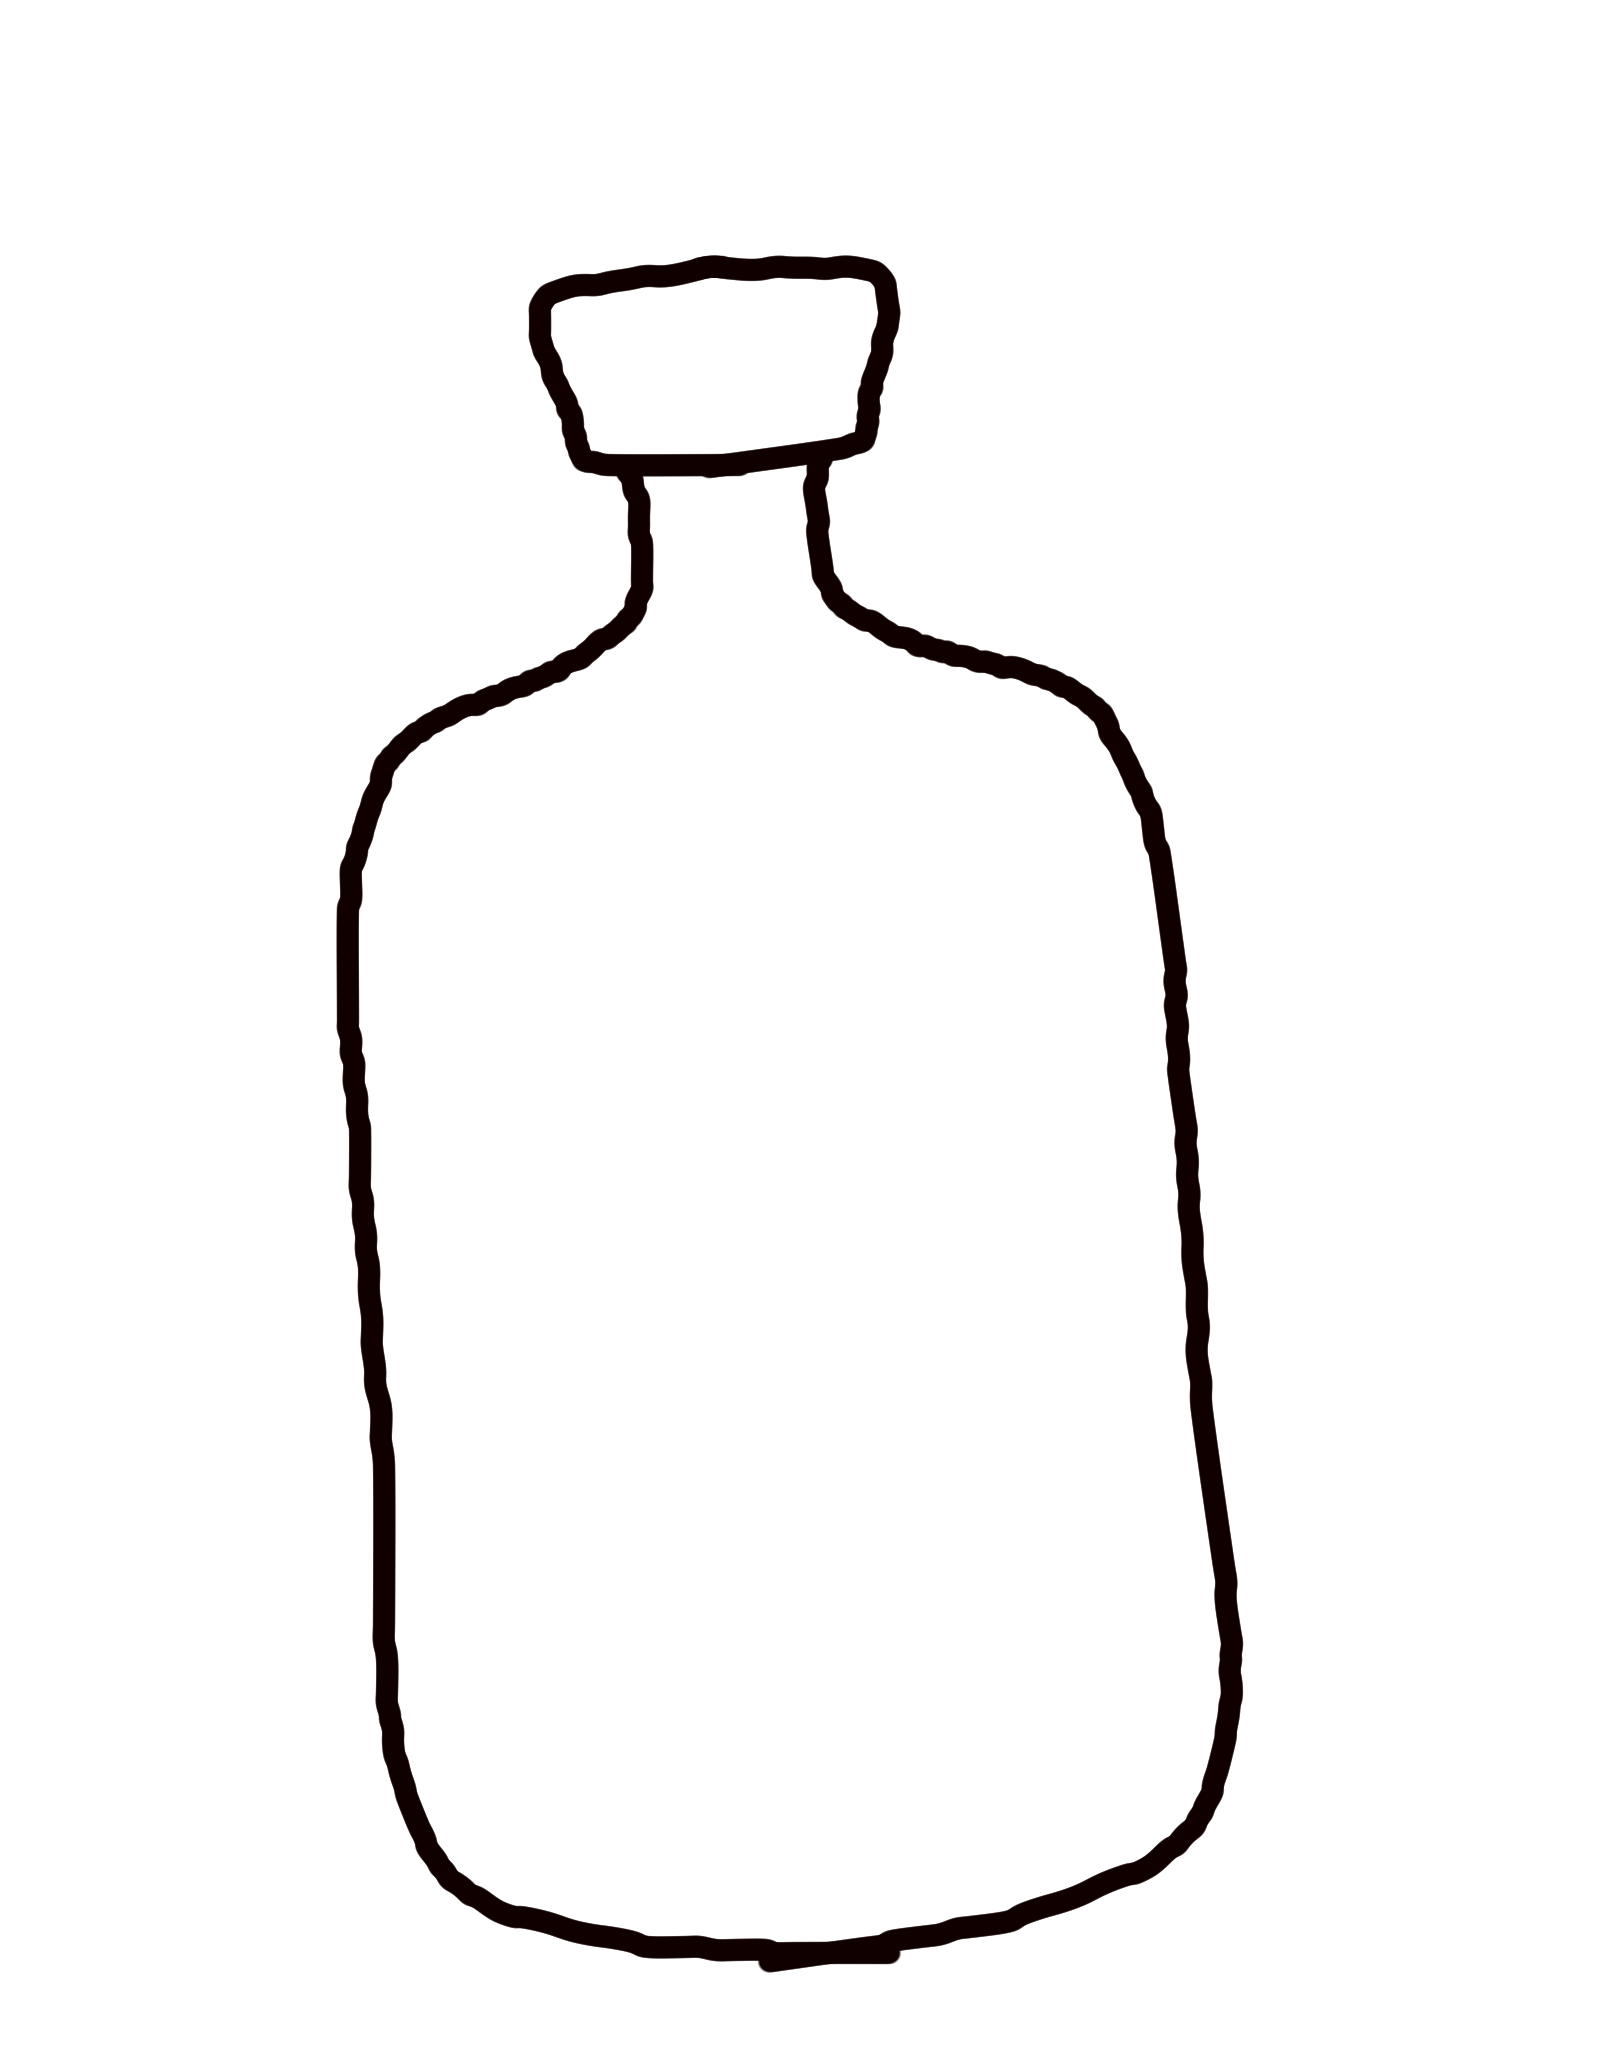
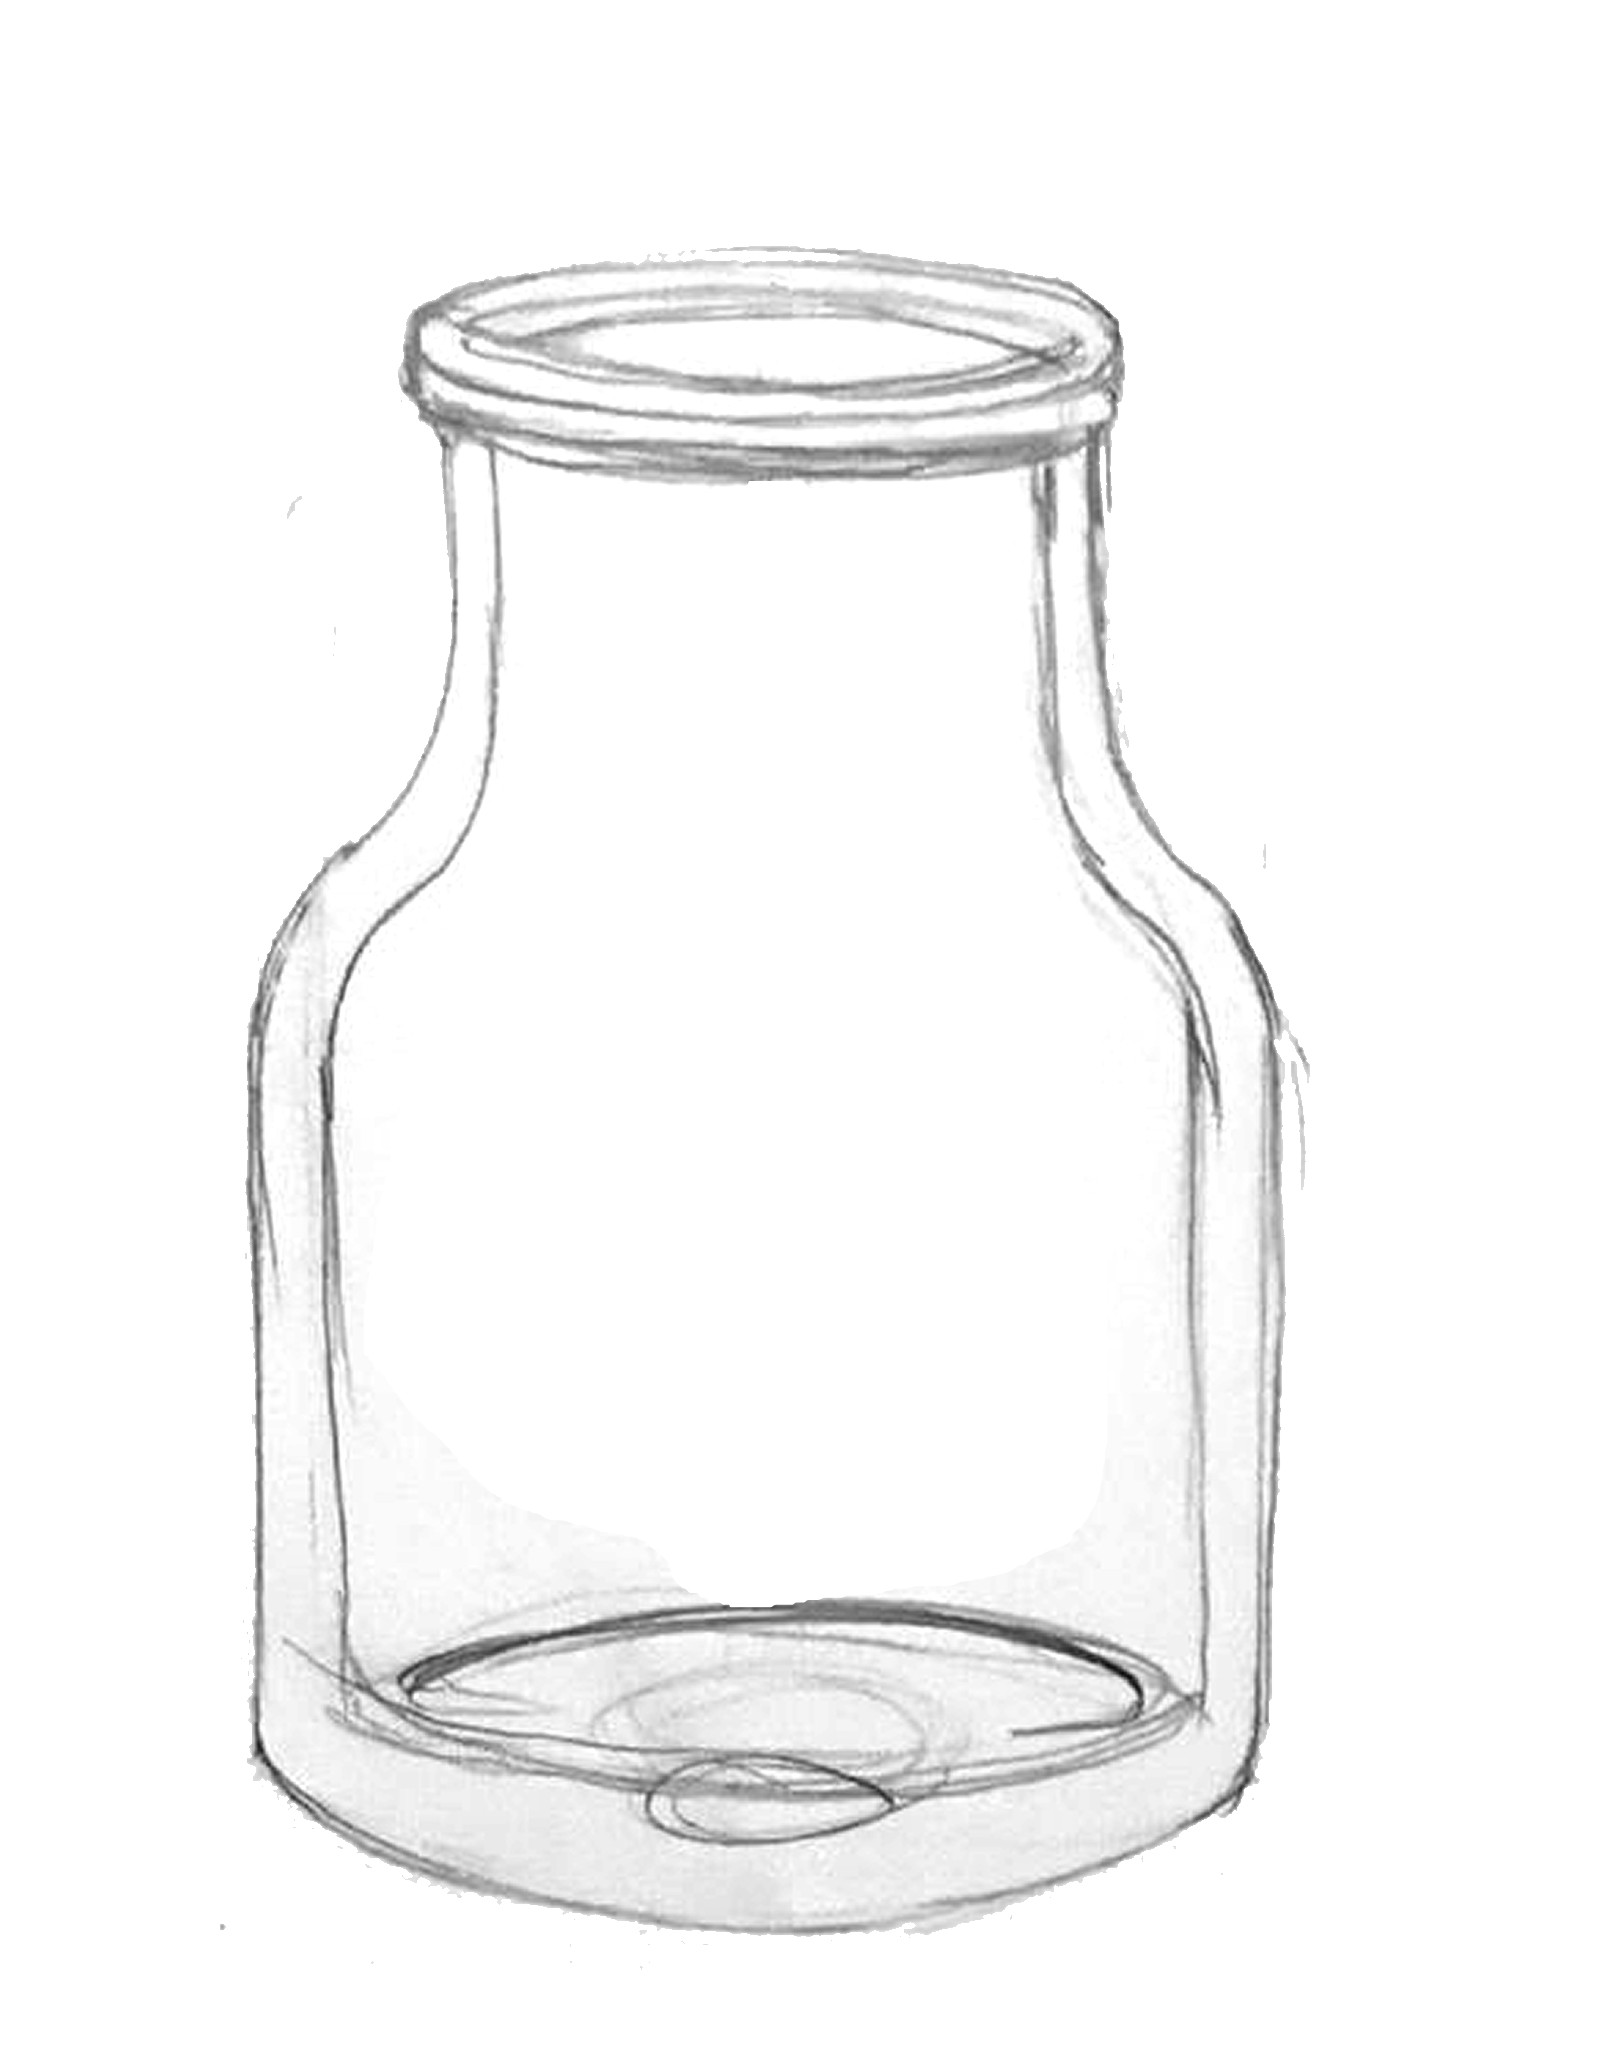
updated bottle image and added cork

Changed region(s): [[0.1562, 0.125, 0.8125, 0.9688]]

diff --git a/dist/index.html b/dist/index.html
@@ -5,6 +5,6 @@
     <div id="bottle-area"><img class="bottle-width pointer-events-none select-none -ml-20" src="https://raw.githubusercontent.com/alexesque/paper-doll-main/main/img/bottle.png" /></div>
     <div id="clothes-area-r" class="grid grid-cols-2 gap-2"></div>
 </div>
-<script>!function(){"use strict";const e={accessories:{z:40,items:["red-gloves"]},bottoms:{z:50,items:["black-jeans","black-shorts","blue-jeans","green-pants","plaid-skirt","purple-slacks","quilt-skirt"]},hats:{z:90,items:["green-cowboy","red-cowboy"]},outerwear:{z:80,items:["leather-jacket","rain-coat"]},shoes:{z:30,items:["black-heels","converse","cowboy-boots","orange-heels","pink-heels"]},socks:{z:20,items:["green-socks","pink-socks","white-socks","yellow-socks"]},sweaters:{z:70,items:["black-sweater","orange-sweater"]},tops:{z:1,items:["button-up","pink-jumpsuit","red-dress","torn-tank","yellow-blouse","pink-tank-top","blue-dress"]},underwear:{z:10,items:["black-tights","bralette","fishnets","orange-tights","purple-tights"]}};for(let t in e)e[t].items.map((s,n)=>{const l=document.createElement("div");l.dataset.clothing=s,l.style.zIndex=e[t].z;const o=document.createElement("img");["leather-jacket","rain-coat","red-gloves"].includes(s)?o.classList.add("w-24","five-eighths-bottle-width"):o.classList.add("w-20","half-bottle-width"),o.classList.add("select-none"),o.src=`https://raw.githubusercontent.com/alexesque/paper-doll-main/main/img/${s}.png`;const a=document.createElement("div");return a.classList.add("w-24"),l.appendChild(o),a.appendChild(l),a}).map((e,t)=>t%2?document.getElementById("clothes-area-l").appendChild(e):document.getElementById("clothes-area-r").appendChild(e));const t=document.getElementById("bottle-area");document.querySelectorAll("[data-clothing]").forEach(e=>{e.ondragstart=()=>!1,e.ondragend=()=>!1,e.onmousedown=s=>{document.querySelectorAll(".last-active").forEach(e=>e.classList.remove("last-active")),e.parentElement.classList.add("last-active"),e.classList.add("active"),e.style.position="absolute";const n=s.clientX-e.getBoundingClientRect().left,l=s.clientY-e.getBoundingClientRect().top,o=t=>{e.style.left=t.pageX-n+"px",e.style.top=t.pageY-l+"px"};document.addEventListener("mousemove",o),document.onmouseup=s=>{document.removeEventListener("mousemove",o),(s.clientX<t.getBoundingClientRect().left||s.clientX>t.getBoundingClientRect().right||s.clientY<t.getBoundingClientRect().top||s.clientY>t.getBoundingClientRect().bottom)&&(e.classList.remove("active"),e.style.position="static",e.style.left=null,e.style.top=null)}}})}();
+<script>!function(){"use strict";const e={accessories:{z:40,items:["red-gloves"]},bottoms:{z:50,items:["black-jeans","black-shorts","blue-jeans","green-pants","plaid-skirt","purple-slacks","quilt-skirt"]},hats:{z:90,items:["green-cowboy","red-cowboy"]},outerwear:{z:80,items:["leather-jacket","rain-coat"]},shoes:{z:30,items:["black-heels","converse","cowboy-boots","orange-heels","pink-heels"]},socks:{z:20,items:["green-socks","pink-socks","white-socks","yellow-socks"]},sweaters:{z:70,items:["black-sweater","orange-sweater"]},tops:{z:1,items:["button-up","pink-jumpsuit","red-dress","torn-tank","yellow-blouse","pink-tank-top","blue-dress"]},underwear:{z:10,items:["black-tights","cork","fishnets","orange-tights","purple-tights"]}};for(let t in e)e[t].items.map((s,n)=>{const l=document.createElement("div");l.dataset.clothing=s,l.style.zIndex=e[t].z;const o=document.createElement("img");["leather-jacket","rain-coat","red-gloves"].includes(s)?o.classList.add("w-24","five-eighths-bottle-width"):o.classList.add("w-20","half-bottle-width"),o.classList.add("select-none"),o.src=`https://raw.githubusercontent.com/alexesque/paper-doll-main/main/img/${s}.png`;const a=document.createElement("div");return a.classList.add("w-24"),l.appendChild(o),a.appendChild(l),a}).map((e,t)=>t%2?document.getElementById("clothes-area-l").appendChild(e):document.getElementById("clothes-area-r").appendChild(e));const t=document.getElementById("bottle-area");document.querySelectorAll("[data-clothing]").forEach(e=>{e.ondragstart=()=>!1,e.ondragend=()=>!1,e.onmousedown=s=>{document.querySelectorAll(".last-active").forEach(e=>e.classList.remove("last-active")),e.parentElement.classList.add("last-active"),e.classList.add("active"),e.style.position="absolute";const n=s.clientX-e.getBoundingClientRect().left,l=s.clientY-e.getBoundingClientRect().top,o=t=>{e.style.left=t.pageX-n+"px",e.style.top=t.pageY-l+"px"};document.addEventListener("mousemove",o),document.onmouseup=s=>{document.removeEventListener("mousemove",o),(s.clientX<t.getBoundingClientRect().left||s.clientX>t.getBoundingClientRect().right||s.clientY<t.getBoundingClientRect().top||s.clientY>t.getBoundingClientRect().bottom)&&(e.classList.remove("active"),e.style.position="static",e.style.left=null,e.style.top=null)}}})}();
 </script>
 <!-- /paper-doll -->

diff --git a/dist/index.js b/dist/index.js
@@ -1,1 +1,1 @@
-!function(){"use strict";const e={accessories:{z:40,items:["red-gloves"]},bottoms:{z:50,items:["black-jeans","black-shorts","blue-jeans","green-pants","plaid-skirt","purple-slacks","quilt-skirt"]},hats:{z:90,items:["green-cowboy","red-cowboy"]},outerwear:{z:80,items:["leather-jacket","rain-coat"]},shoes:{z:30,items:["black-heels","converse","cowboy-boots","orange-heels","pink-heels"]},socks:{z:20,items:["green-socks","pink-socks","white-socks","yellow-socks"]},sweaters:{z:70,items:["black-sweater","orange-sweater"]},tops:{z:1,items:["button-up","pink-jumpsuit","red-dress","torn-tank","yellow-blouse","pink-tank-top","blue-dress"]},underwear:{z:10,items:["black-tights","bralette","fishnets","orange-tights","purple-tights"]}};for(let t in e)e[t].items.map((s,n)=>{const l=document.createElement("div");l.dataset.clothing=s,l.style.zIndex=e[t].z;const o=document.createElement("img");["leather-jacket","rain-coat","red-gloves"].includes(s)?o.classList.add("w-24","five-eighths-bottle-width"):o.classList.add("w-20","half-bottle-width"),o.classList.add("select-none"),o.src=`https://raw.githubusercontent.com/alexesque/paper-bottle-main/main/img/${s}.png`;const a=document.createElement("div");return a.classList.add("w-24"),l.appendChild(o),a.appendChild(l),a}).map((e,t)=>t%2?document.getElementById("clothes-area-l").appendChild(e):document.getElementById("clothes-area-r").appendChild(e));const t=document.getElementById("bottle-area");document.querySelectorAll("[data-clothing]").forEach(e=>{e.ondragstart=()=>!1,e.ondragend=()=>!1,e.onmousedown=t=>{document.querySelectorAll(".last-active").forEach(e=>e.classList.remove("last-active")),e.parentElement.classList.add("last-active")},e.onmousedown=s=>{e.classList.add("active"),e.style.position="absolute";const n=s.clientX-e.getBoundingClientRect().left,l=s.clientY-e.getBoundingClientRect().top,o=t=>{e.style.left=t.pageX-n+"px",e.style.top=t.pageY-l+"px"};document.addEventListener("mousemove",o),document.onmouseup=s=>{document.removeEventListener("mousemove",o),(s.clientX<t.getBoundingClientRect().left||s.clientX>t.getBoundingClientRect().right||s.clientY<t.getBoundingClientRect().top||s.clientY>t.getBoundingClientRect().bottom)&&(e.classList.remove("active"),e.style.position="static",e.style.left=null,e.style.top=null)}}})}();
+!function(){"use strict";const e={accessories:{z:40,items:["red-gloves"]},bottoms:{z:50,items:["black-jeans","black-shorts","blue-jeans","green-pants","plaid-skirt","purple-slacks","quilt-skirt"]},hats:{z:90,items:["green-cowboy","red-cowboy"]},outerwear:{z:80,items:["leather-jacket","rain-coat"]},shoes:{z:30,items:["black-heels","converse","cowboy-boots","orange-heels","pink-heels"]},socks:{z:20,items:["green-socks","pink-socks","white-socks","yellow-socks"]},sweaters:{z:70,items:["black-sweater","orange-sweater"]},tops:{z:1,items:["button-up","pink-jumpsuit","red-dress","torn-tank","yellow-blouse","pink-tank-top","blue-dress"]},underwear:{z:10,items:["black-tights","cork","fishnets","orange-tights","purple-tights"]}};for(let t in e)e[t].items.map((s,n)=>{const l=document.createElement("div");l.dataset.clothing=s,l.style.zIndex=e[t].z;const o=document.createElement("img");["leather-jacket","rain-coat","red-gloves"].includes(s)?o.classList.add("w-24","five-eighths-bottle-width"):o.classList.add("w-20","half-bottle-width"),o.classList.add("select-none"),o.src=`https://raw.githubusercontent.com/alexesque/paper-bottle-main/main/img/${s}.png`;const a=document.createElement("div");return a.classList.add("w-24"),l.appendChild(o),a.appendChild(l),a}).map((e,t)=>t%2?document.getElementById("clothes-area-l").appendChild(e):document.getElementById("clothes-area-r").appendChild(e));const t=document.getElementById("bottle-area");document.querySelectorAll("[data-clothing]").forEach(e=>{e.ondragstart=()=>!1,e.ondragend=()=>!1,e.onmousedown=t=>{document.querySelectorAll(".last-active").forEach(e=>e.classList.remove("last-active")),e.parentElement.classList.add("last-active")},e.onmousedown=s=>{e.classList.add("active"),e.style.position="absolute";const n=s.clientX-e.getBoundingClientRect().left,l=s.clientY-e.getBoundingClientRect().top,o=t=>{e.style.left=t.pageX-n+"px",e.style.top=t.pageY-l+"px"};document.addEventListener("mousemove",o),document.onmouseup=s=>{document.removeEventListener("mousemove",o),(s.clientX<t.getBoundingClientRect().left||s.clientX>t.getBoundingClientRect().right||s.clientY<t.getBoundingClientRect().top||s.clientY>t.getBoundingClientRect().bottom)&&(e.classList.remove("active"),e.style.position="static",e.style.left=null,e.style.top=null)}}})}();

diff --git a/index.js b/index.js
@@ -33,7 +33,7 @@ const clothes = {
     },
     underwear: {
         z: 10,
-        items: ['black-tights', 'bralette', 'fishnets', 'orange-tights', 'purple-tights'],
+        items: ['black-tights', 'cork', 'fishnets', 'orange-tights', 'purple-tights'],
     },
 };
 
